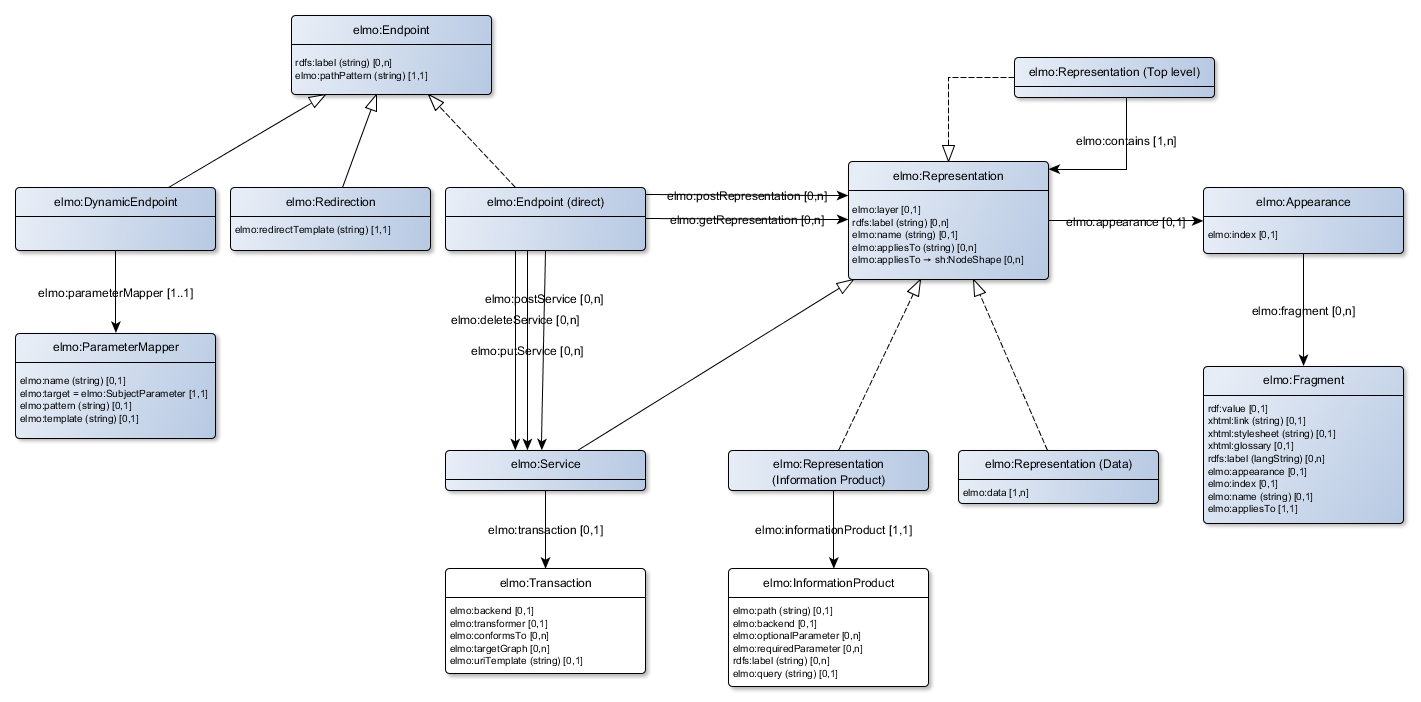
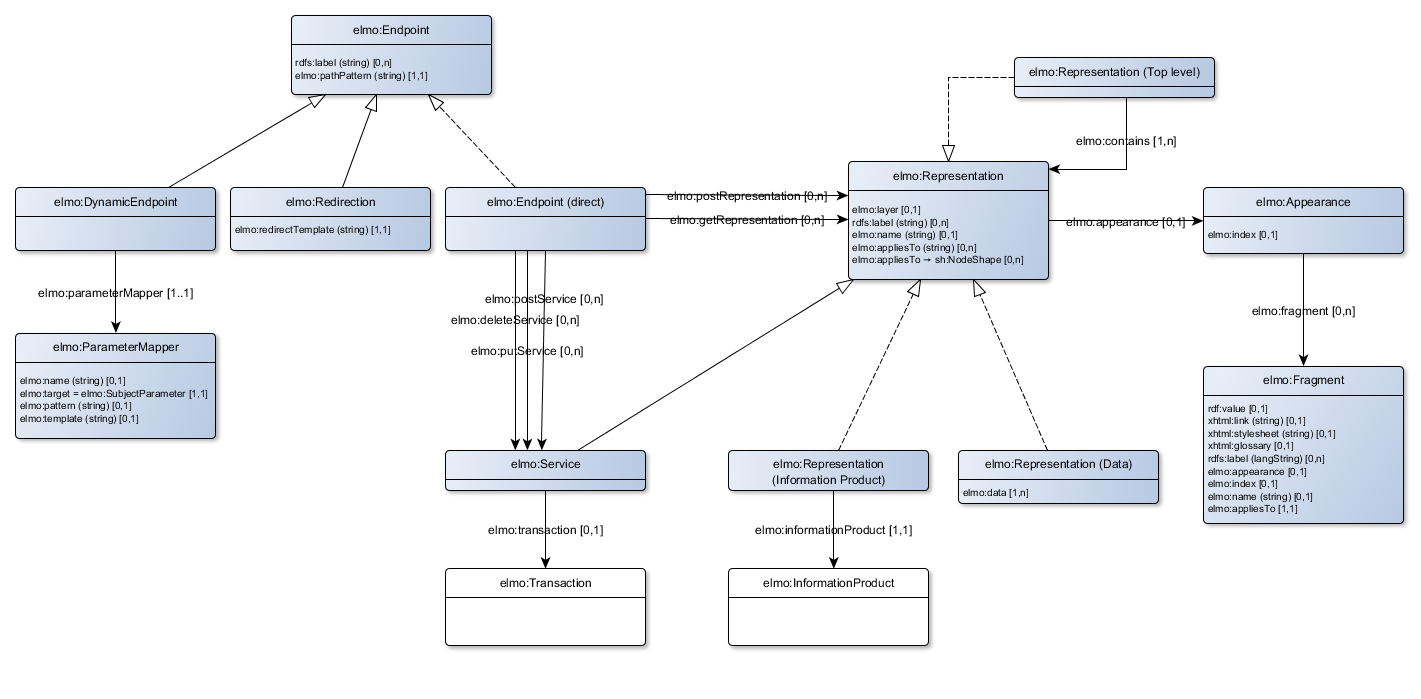
Fixed inconsistancies

diff --git a/vocabulary/README.md b/vocabulary/README.md
@@ -64,7 +64,7 @@ We have created a [configuration file](examples/transactions.trig) that contains
 ## Front-end configuration
 The picture below gives a visual representation of the elmo vocabulary with respect to the front-end configuration. You use the front-end configuration to serve regular linked data serializations and HTML. The front-end configuration is not meant for API specifications, for this you will need to create an OpenAPI specification document.
 ![](elmo-frontend-diagram.png)
-Blank versions of `elmo:InformationProduct` and `elmo:Transaction` are depicted in the picture above, to describe the way that an `elmo:Representation` is linked to these components.
+Blank versions of `elmo:InformationProduct` and `elmo:Transaction` are depicted in the picture above, to describe the way that an `elmo:Representation` or `elmo:Service` is linked to these components.
 
 ### Parameter mapping
 ![](elmo-frontend-mapper-diagram.png)
@@ -99,14 +99,18 @@ Information resources are dereferenced using an `elmo:Representation`. To redire
 The syntax for `elmo:pathPattern` and `elmo:redirectTemplate` are the same as for `elmo:pattern` and `elmo:template` as used with a [ParameterMapper](#parameter-mapping).
 
 #### Direct endpoints
-You use direct endpoints if you are sure that the URI of a resource is located at your server and you know the kind of representation that you want to use. In this case, you specify the representation that is used for a GET to a specific url(pattern), as in the example below:
+You use direct endpoints if you are sure that the URI of a resource is located at your server and you know the kind of representation that you want to use. In this case, you specify the representation that is used for a GET to a specific path pattern, as in the example below:
 
 	config:DirectEndpoint a elmo:Endpoint;
 		elmo:pathPattern "/query/allitems";
 		elmo:getRepresentation elmo:AllItemsRepresentation
 	.
 
-Other http methods are also available via `postRepresentation`, `putRepresentation` and `deleteRepresentation`.
+A GET http method is the most common method for retrieving a representation. A POST http method is also possible, in which case the parameters are encoding within the body of the http request. In such cases, you use `elmo:postRepresentation` (probably to the same representation).
+
+The POST, PUT and DELETE http methods are used to execute transactions. These methods are used to link an endpoint to one or more services, via `elmo:postService`, `elmo:putService` or `elmo:deleteService`. Services are subclasses of representations and give access to transactions. 
+
+It is possible to combine `elmo:getRepresentation` and `elmo:postService` in the same endpoint. It is also possible that these properties refer to the same service. You can even combine `elmo:postRepresentation` and `elmo:postService` with the same endpoint. In this special case, a http POST request will only be directed via `elmo:postRepresentation` if the value for the http content-type header is equal to `application/x-www-form-urlencoded` or `multipart/form-data`.
 
 #### Dynamic endpoints
 Dynamic endpoints are useful when you don't really know what kind of representation should be used for a URI. This can be useful when:
@@ -144,7 +148,7 @@ Direct endpoints are linked to representations. In such a case, it is clear whic
 - Pattern: the value for `elmo:SubjectParameter` matches the specified pattern;
 - Profile: the CBD for `elmo:SubjectParameter` conforms to the specified shape (CBD = Concise Bounded Description, the triples <S,P,O> with S = the value of `elmo:SubjectParameter`.
 
-Only top-level representations should have links to transactions. Only the information product from the top-level representation is serialized with the http response (in a RDF format, or as inline data within the HTML). Data from containing representations are only used for html representations.
+Only the information product from the top-level representation is serialized with the http response (in a RDF format, or as inline data within the HTML). Data from containing representations are only used for html representations.
 
 A representation is linked to a particular appearance that specifies how the data is presented in the browser.
 
